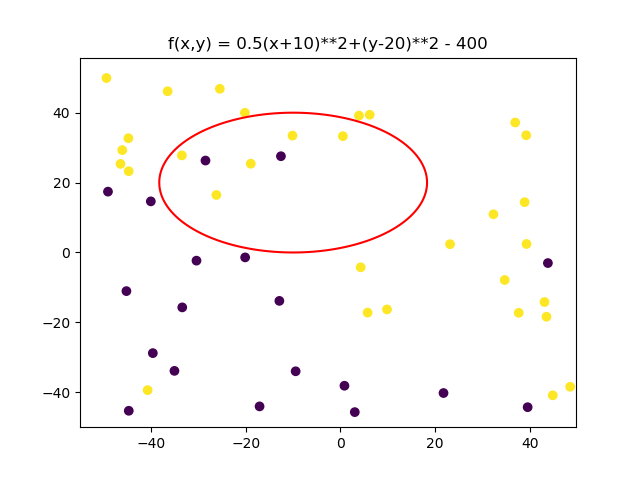
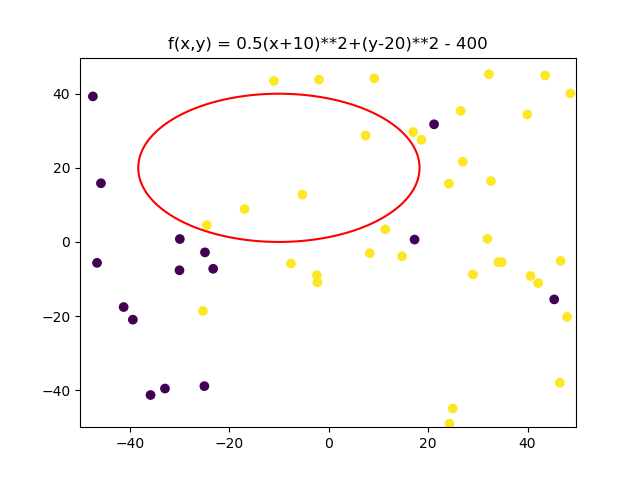
Terminando P2

diff --git a/P2/doc/P2-Balderas-Ruiz-Luis.tex b/P2/doc/P2-Balderas-Ruiz-Luis.tex
@@ -84,7 +84,7 @@
 	
 	Creo una recta aleatoria con la función \textit{simula\_recta()} de forma que su pendiente y su ordenada en el origen son las siguientes:
 	
-	$$a = -0.750132431433, b=-14.4754885133$$
+	$$a = -2.04013210695, b=-46.0760383842$$
 	
 	Tras generar el dataset de 50 puntos, etiqueto cada uno de ellos en función de si están por encima o por debajo de la recta (cada color indica una situación). El resultado es el siguiente: 
 	
@@ -165,6 +165,171 @@ Está claro que no genera ningún beneficio en este caso con respecto a la recta
 \end{itemize}
 
 Como se puede ver, ninguna modificación compleja de la función lineal original ha servido para mejorar la clasificación. El motivo es que los datos son prácticamente linealmente separables (solamente han cambiado las etiquetas de 4 puntos) por lo que, a pesar de que no clasificaría el 100\% de los datos bien, comete un error muy pequeño.
+
+
+\section{MODELOS LINEALES}
+
+\subsection{Ejercicio 1}
+
+\textbf{Implementar la función ajusta\_PLA que calcula el hiperplano solución a un problema de clasificación binaria usando el algoritmo PLA. La función devuelve los coeficientes del hiperplano}
+
+\begin{itemize}
+	\item[a)] Ejecutar el algoritmo PLA con los datos simulados en los apartados 2a. Inicializar el algoritmo con: a) el vector cero y, b) con vectores de números aleatorios en [0,1] (10 veces). Anotar el número medio de iteraciones necesarias en ambos para converger. Valorar el resultado relacionando el punto de inicio con el número de iteraciones.
+	
+	En el primer caso, con un vector cero, los resultados son constantes. Los resultados son los siguientes:
+	
+	 w =  (334,13.38587411,4.62931342) y 55 iteraciones de media. He aquí el ajuste:
+	
+	\begin{figure}[H] %con el [H] le obligamos a situar aquí la figura
+		\centering
+		\includegraphics[scale=0.5]{PLA1.png}  %el parámetro scale permite agrandar o achicar la imagen. En el nombre de archivo puede especificar directorios
+		\caption{Ajuste de PLA con para los datos de 2a inicializado con vector cero} 
+		\label{fig:pla1}
+	\end{figure}
+
+	En el segundo caso, con un vector inicializado con números aleatorios entre 0 y 1, se obtienen los siguientes resultados (w varía en función de la iteración): 53.4 iteraciones de media para la convergencia. Por mostrar que funciona de manera conveniente, represento el resultado de la primera iteración:
+	
+	\begin{figure}[H] %con el [H] le obligamos a situar aquí la figura
+		\centering
+		\includegraphics[scale=0.5]{PLA2.png}  %el parámetro scale permite agrandar o achicar la imagen. En el nombre de archivo puede especificar directorios
+		\caption{Ajuste de PLA con para los datos de 2a inicializado con vector aleatorio} 
+		\label{fig:pla2}
+	\end{figure}
+	
+	\item[b)] Hacer lo mismo que antes usando ahora los datos del apartado 2b. ¿Observa algún comportamiento diferente? En caso afirmativo diga cuál y las razones para que ello ocurra.
+	
+	Efectivamente, el comportamiento es diferente. Los datos generados en el apartado 2b de la sección 1 están caracterizados por la existencia de ruido en ellos. En concreto, de un 10\% de las etiquetas de cada clase. Por tanto, el conjunto de datos no es linealmente separable. En consecuencia, el algoritmo PLA no puede converger y generar un hiperplano (una recta en este caso) que separe los datos \cite{lfd}, \cite{esl}. 
+	
+	Como se puede ver en la ejecución del algoritmo, tras 15000 iteraciones, los resultados son distintos cada vez y no se consigue la separación como se puede ver a continuación:
+	
+	
+	\begin{figure}[H] %con el [H] le obligamos a situar aquí la figura
+		\centering
+		\includegraphics[scale=0.5]{PLA-ruido.png}  %el parámetro scale permite agrandar o achicar la imagen. En el nombre de archivo puede especificar directorios
+		\caption{Ajuste de PLA con para los datos de 2b. No hay convergencia} 
+		\label{fig:pla-ruido}
+	\end{figure}
+
+	Por tanto, sea cual sea el $w$ de inicio, cero o aleatorio, no se alcanza un resultado ni convergencia (la recta se queda fuera de los márgenes previstos en los puntos).
+\end{itemize}
+
+
+\subsection{Ejercicio 2}
+
+\textbf{Regresión Logística}
+
+\begin{itemize}
+	\item[a)] Implementar Regresión Logística con SGD bajo las siguientes condiciones: Inicializar el vector de pesos con valores 0; criterio de parada con $\epsilon = 0.01$; aplicar permutación aleatoria antes de cada época; tasa de aprendizaje de $\eta = 0.01$.
+	
+	En primer lugar, genero el conjunto de datos como se pide, una recta y divido el dataset en dos tipos:
+	
+	\begin{figure}[H] %con el [H] le obligamos a situar aquí la figura
+		\centering
+		\includegraphics[scale=0.6]{reg-log.png}  %el parámetro scale permite agrandar o achicar la imagen. En el nombre de archivo puede especificar directorios
+		\caption{Dataset a evaluar con SGD-RL} 
+		\label{fig:reg-log}
+	\end{figure}
+	
+	
+	En el archivo de código está implementada la Regresión Logística con SGD. Cabe destacar que es parecida a SGD que desarrollamos en la práctica anterior, teniendo en cuenta que el tamaño del minibatch es 1. Sin embargo, calculamos el gradiente de $E_in$ vía la fórmula de regresión logística:
+	$$\nabla E_{in} = \frac{-1}{N} \sum_{n=1}^{N} = \frac{y_n x_n}{1+ e^{y_n w^T(t)x_n}}$$
+	
+	Muestro ahora el resultado de la ejecución:
+	
+	w = (-10.69386455, 3.26264871, 6.14173663), $E_{in}$ = 0.13625555
+	
+	\begin{figure}[H] %con el [H] le obligamos a situar aquí la figura
+		\centering
+		\includegraphics[scale=0.6]{SGD-RL.png}  %el parámetro scale permite agrandar o achicar la imagen. En el nombre de archivo puede especificar directorios
+		\caption{SGD-Regresión Logística en training} 
+		\label{fig:sgd-rl-train}
+	\end{figure}
+
+	\item[b)] Usar la muestra de datos etiquetada para enconrar nuestra solución g y estimar $E_{out}$ usando para ello un número suficientemente grande de datos.
+	
+	Para este apartado, genero 2000 puntos 2D en $[0,2]\times[0,2]$. Calculo sus etiquetas y obtengo los siguientes resultados:
+	
+	$E_{out}$ = 0.13496952
+	
+	\begin{figure}[H] %con el [H] le obligamos a situar aquí la figura
+		\centering
+		\includegraphics[scale=0.6]{SGD-RL-T.png}  %el parámetro scale permite agrandar o achicar la imagen. En el nombre de archivo puede especificar directorios
+		\caption{SGD-Regresión Logística en test} 
+		\label{fig:sgd-rl-test}
+	\end{figure}
+	
+	Como se puede comprobar, $E_{out} < E_{in}$. Paradójicamente, en este problema tiene sentido. Si la frontera de decisión es fija (la recta se genera al principio y no se mueve) y simulamos las etiquetas de acuerdo a esa recta, ahora tenemos un dataset a evaluar con una distribución uniforme mucho más poblada que antes. Como SGD-RL ha sido capaz de ajustarse mucho a la frontera de decisión, separa muchísimos más datos  que antes (el dataset es mucho mayor) correctamente y deja prácticamente los mismos mal clasificados, por lo que el error disminuye.
+\end{itemize}	
+	
+\section{BONUS}
+
+\subsection{Ejercicio 1}
+
+\textbf{Considera el conjunto de datos de los dígitos manuscritos. Plantear un problema de clasificación binaria que considere el conjunto de entrenamiento como datos de entrada para aprender la función g. Usar un modelo de Regresión Lineal y aplicar PLA-Pocket como mejora. Responder a la siguientes cuestiones}
+
+\begin{itemize}
+	\item[a)] Generar gráficos separados de los datos de entrenamiento y test junto con la función estimada.
+	
+	En primer lugar, he utilizado la Pseudoinversa como modelo de regresión lineal, ya que lo teníamos implementado en la práctica anterior. Aprovechando Pseudoinversa, el calculado la $w_{ini}$ = (0.50676351, -8.25119739, -0.44464113) . A continuación, con esa $w_{ini}$, ejecuto PLA-Pocket y se obtienen los siguiente resultados:
+	
+	$w$ = (6.50676351, -94.33278003, -4.88432863)
+	
+	\begin{figure}[H] %con el [H] le obligamos a situar aquí la figura
+		\centering
+		\includegraphics[scale=0.6]{train_pla_pocket.png}  %el parámetro scale permite agrandar o achicar la imagen. En el nombre de archivo puede especificar directorios
+		\caption{Resultado de entrenamiento PLA-Pocket+Pseudoinversa} 
+		\label{fig:train-pla-pocket}
+	\end{figure}
+
+	En el caso de test, el resultado es el siguiente:
+	
+	\begin{figure}[H] %con el [H] le obligamos a situar aquí la figura
+		\centering
+		\includegraphics[scale=0.6]{test_pla_pocket.png}  %el parámetro scale permite agrandar o achicar la imagen. En el nombre de archivo puede especificar directorios
+		\caption{Resultado de test PLA-Pocket+Pseudoinversa} 
+		\label{fig:test-pla-pocket}
+	\end{figure}
+
+ 	\item[b)] Calcular $E_{in}$ y $E_{test}$
+ 	
+ 	Tras realizar los cálculos, vemos los siguientes resultados:
+ 	
+ 	$$E_{in} = 0.22529313232830822$$
+ 	$$E_{test} = 0.2540983606557377$$
+ 	
+ 	\item[c)] Obtener cotas sobre el verdadero valor de  $E_{out}$.
+ 	
+ 	Pueden calcularse dos cotas (\cite{lfd}). Trato primera la de $E_{in}$. 
+ 	Sea $h \in H$, fija, $f(x)$ la función objetivo (desconocida), $D$ el conjunto de entrenamiento de tamaño N. Podemos escribir la desigualdad de Hoeffding como sigue:
+ 	
+ 	$$P(D: |E_{out}(h)-E_{in}(h)|> \epsilon) \leq 2 e^{-2\epsilon^2N} \hspace{0.5cm} \forall \epsilon > 0$$
+ 	
+ 	Llamando $\delta = 2e^{-2\epsilon^2 N}$, tenemos
+	
+	$$P(D: |E_{out}(h)-E_{in}(h)|> \epsilon) \leq \delta \Rightarrow P(D: |E_{out}(h)-E_{in}(h)| < \epsilon) \geq 1 - \delta$$
+	
+	Podemos escribir, por tanto, la siguiente desigualdad:
+	
+	$$E_{out}(h) \leq E_{in}(h) + \sqrt{\frac{1}{2N} \log \frac{2}{\delta}}$$
+	con probabilidad al menos $1-\delta$ en $D$.
+	
+	Considerando una clase de funciones finita, la expresión se convierte en 
+	$$E_{out}(h) \leq E_{in}(h) + \sqrt{\frac{1}{2N} \log \frac{2|H|}{\delta}}$$
+	
+	Sin embargo, el tamaño de la clase de funciones ahora entra en juego y puede hacer menos útil la cota. Para poder garantizar una buena cota, surge la teoría de la generalización y la Dimensión de Vapnik-Chervonenkis (VC). Como se trata de un modelo lineal, VC = 3 y la cota a utilizar es la siguiente:
+	
+	$$E_{out}(h) \leq E_{in}(h) + \sqrt{\frac{8}{N} \log \frac{4((2N)^{d {VC}}+1)}{\delta}}$$
+	
+	La cota, por tanto, es $E_{out} \leq 0.656229637799$.
+	
+	Para el caso de $E_{test}$, cuando afirmamos que $E_{test}$ es un estimador de $E_{out}$, estamos afirmando que $E_{test}$ generaliza muy bien $E_{out}$. En el caso anterior, intentábamos buscar la función que minimizaba $E_{in}$. Ahora, sin embargo, ya tenemos una función fija y queremos simplemente estimar el error. Por tanto, la desigualdad de Hoeffding con una hipótesis es suficiente para el caso de conjunto de test. 
+	
+	$$E_{out}(h) \leq E_{test}(h) + \sqrt{\frac{1}{2N} \log \frac{2}{\delta}}$$
+	
+	La cota, por tanto, es $E_{out} \leq 0.325087464088$
+	
+	Como intentamos minimizar $E_{out}$, la mejor cota es la menor, es decir, la que genera $E_{test}$.
+\end{itemize}
 
 \newpage
 \section{Bibliografía}

diff --git a/P2/P2-BalRuiLui.py b/P2/P2-BalRuiLui.py
@@ -11,7 +11,7 @@ import warnings
 
 
 # Fijamos la semilla
-np.random.seed(123456789)
+np.random.seed(77145416)
 
 
 def simula_unif(N, dim, rango):
@@ -97,9 +97,8 @@ def dibujaRecta(x, y, a, b, titulo='Scatter plot de datos', eje_x='X', eje_y='Y'
 	plt.title(titulo)
 	plt.show()
 
-"""
-#Ejercicio 1: SOBRE LA COMPLEJIDAD DE H Y EL RUIDO
-"""
+
+# Ejercicio 1: SOBRE LA COMPLEJIDAD DE H Y EL RUIDO
 
 
 print("####################################################")
@@ -147,6 +146,7 @@ print("Conjunto de datos a representar gráficamente")
 print(puntos_un)
 plt.scatter(puntos_un[:,0],puntos_un[:,1], c = puntos_un[:,2])
 plt.plot([-50,50],[-50*a+b,50*a+b])
+plt.ylim([-60,60])
 plt.title("Conjunto aleatorio de datos y recta que los separa")
 plt.show()
 
@@ -185,6 +185,7 @@ print("Modificación de  los puntos anteriores añadiendo ruido en el 10% de las
 print(puntos_ruido)
 plt.scatter(puntos_ruido[:,0],puntos_ruido[:,1], c = puntos_ruido[:,2])
 plt.plot([-50,50],[-50*a+b,50*a+b])
+plt.ylim([-60,60])
 plt.title("Introducción de ruido sobre el conjunto de datos.\n Ahora hay puntos mal clasificados")
 plt.show()
 
@@ -248,10 +249,19 @@ print("####################################################")
 
 print("Definiendo la función ajusta_PLA...")
 
-def ajusta_PLA(datos,label,vini,max_iter = -1):
+#
+# PLA
+# @brief Algoritmo que dados un conjunto de datos y etiquetas, genera el ajuste
+# 		 lineal que separa los datos.
+# @param datos Conjunto de datos para clasificar
+# @param label Etiquetas para los datos anteriores
+# @param max_iter Número máximo de iteraciones
+# @param vini Valor inicial de los w
+#
+
+def ajusta_PLA(datos,label,max_iter,vini):
 	w = vini
 	w_old = vini
-	datos = np.concatenate((np.ones((datos.shape[0],1),np.float64),datos),axis=1)
 	it = 0
 	changes = True
 	if max_iter != -1:
@@ -275,51 +285,91 @@ def ajusta_PLA(datos,label,vini,max_iter = -1):
 			w = np.array(w)
 	return w,it
 
-def ajusta_PLA2(datos,label,max_iter,vini):
-	w = vini
-	for i in range(max_iter):
-		w_old = w
-		for d,l in zip(datos,label):
-			if np.sign(w.dot(d)) != l:
-				w = w + l*d
-		if np.all(np.equal(w,w_old)):
-			return w, i
-	return w,max_iter
 
 print("Ejercicio 1")
 
 print("a) Ejecuto PLA con los datos de 2a de la sección anterior. Parámetros:")
 print("a) 1. Vector 0")
 
-# 92 iteraciones w [  36.85168076   47.132749    605.        ]
-w21a1, it21a1 = ajusta_PLA(puntos,signos,np.zeros(puntos.shape[1]+1,np.float64))
-print("w obtenido: ", w21a1)
-print("Número de iteraciones necesarias para la convergencia: ", it21a1)
+
+# Añado la columna de 1 y preparo las etiquetas para ser dibujadas
+puntos = np.hstack((np.ones(shape=(puntos.shape[0],1)),puntos))
+
+labels = []
+for i in range(len(signos)):
+	labels.append(signos[i][0])
+
+
+media21a1 = 0
+print(puntos)
+for i in range(0,10):
+	print("Iteración ", i)
+	w21a1, it21a1 = ajusta_PLA(puntos,signos,15000,np.zeros(puntos.shape[1],np.float64))
+	print("w obtenido: ", w21a1)
+	#dibujaRecta(puntos,labels,-w21a1[1]/w21a1[2], -w21a1[0]/w21a1[2],"PLA", "X","Y")
+	print("Número de iteraciones necesarias para la convergencia: ", it21a1)
+	media21a1 = media21a1 + it21a1
+	input("\n--- Pulsa una tecla para continuar ---\n")
+
+media21a1 = media21a1/10
+print("La media de iteraciones para la convergencia es ", media21a1) ## 55
 
 input("\n--- Pulsa una tecla para continuar ---\n")
 
 print("a) 2. Vector de números aleatorios [0,1]")
-# 130 iteraciones w  [  41.12023131   54.91502475  758.21062629]
-w21a2, it21a2 = ajusta_PLA(puntos,signos,np.array([np.random.rand(),np.random.rand(),np.random.rand()]))
-print("w obtenido: ",w21a2)
-print("Número de iteraciones necesarias para la convergencia: ",it21a2)
+media21a2 = 0
+
+for i in range(0,10):
+	print("Iteración ", i)
+	w21a2, it21a2 = ajusta_PLA(puntos,signos,15000,np.array([np.random.rand(),np.random.rand(),np.random.rand()]))
+	print("w obtenido: ",w21a2)
+	#dibujaRecta(puntos,labels,-w21a2[1]/w21a2[2], -w21a2[0]/w21a2[2],"PLA", "X","Y")
+	media21a2 = media21a2 + it21a2
+	print("Número de iteraciones necesarias para la convergencia: ",it21a2)
+	input("\n--- Pulsa una tecla para continuar ---\n")
+
+media21a2 = media21a2/10
+print("La media de iteraciones para la convergencia es ", media21a2) #53.4
 
 input("\n--- Pulsa una tecla para continuar ---\n")
 
 print("b) PLA con los datos de 2b de la sección anterior. Parámetros:")
 print("1. Vector 0")
-# No converge. 15000 iteraciones w [  22.7135259   -29.86849622  231.        ]
-w21b1, it21b1 = ajusta_PLA(puntos,puntos_ruido[:,2],np.zeros(puntos.shape[1]+1,np.float64),15000)
-print("w obtenido: ",w21b1)
-print("Número de iteraciones necesarias para la convergencia: ",it21b1)
+media21b1 = 0
+for i in range(0,10):
+	print("Iteración ", i)
+	w21b1, it21b1 = ajusta_PLA(puntos,puntos_ruido[:,2],15000,np.zeros(puntos.shape[1],np.float64))
+	print("w obtenido: ",w21b1)
+	#dibujaRecta(puntos,puntos_ruido[:,2],-w21b1[1]/w21b1[2], -w21b1[0]/w21b1[2],"PLA con ruido", "X","Y")
+	media21b1 = media21b1 + it21b1
+	print("Número de iteraciones necesarias para la convergencia: ",it21b1)
+	input("\n--- Pulsa una tecla para continuar ---\n")
+
+media21b1 = media21b1/10
+if media21b1 > 15000:
+	print("El algoritmo con este conjunto de datos no converge. Siempre se llega al máximo número de iteraciones") # No converge
+else:
+	print("La media de iteraciones para la convergencia es ", media21b1)
 
 input("\n--- Pulsa una tecla para continuar ---\n")
 
 print("2. Vector de números aleatorios [0,1]")
-# No converge 15000 iteraciones w [  33.65887969  -42.0748706   243.0822101 ]
-w21b2, it21b2 = ajusta_PLA(puntos,puntos_ruido[:,2],np.array([np.random.rand(),np.random.rand(),np.random.rand()],np.float64),15000)
-print("w obtenido: ",w21b2)
-print("Número de iteraciones necesarias para la convergencia: ",it21b2)
+
+media21b2 = 0
+
+for i in range(0,10):
+	print("Iteración ", i)
+	w21b2, it21b2 = ajusta_PLA(puntos,puntos_ruido[:,2],15000,np.array([np.random.rand(),np.random.rand(),np.random.rand()],np.float64)) # No converge
+	print("w obtenido: ",w21b2)
+	media21b2 = media21b2 +it21b2
+	print("Número de iteraciones necesarias para la convergencia: ",it21b2)
+	input("\n--- Pulsa una tecla para continuar ---\n")
+
+media21b2 = media21b2/10
+if media21b2 > 15000:
+	print("El algoritmo con este conjunto de datos no converge. Siempre se llega al máximo número de iteraciones")
+else:
+	print("La media de iteraciones para la convergencia es ", media21b2)
 
 input("\n--- Pulsa una tecla para continuar ---\n")
 
@@ -542,6 +592,8 @@ print("Ejecutando Pseudoinversa como ajuste lineal y PLA-Pocket para extraer res
 # al PLA_pocket
 w_ini = pseudoinverse(x,y)
 
+print("w inicial calculada con pseudoinversa: ",w_ini)
+
 # Ejecuto PLA_pocket con 1000 iteraciones y w_ini la salida de Pseudoinversa
 w = PLA_pocket(x, y, 1000, w_ini)
 
@@ -581,7 +633,9 @@ print("de la interpretación de la desigualdad de Hoeffding y su adaptación")
 print("vía la dimensión de Vapnik-Chervonenkis (3 por ser lineal)")
 
 cotaein = E_in + np.sqrt((8/y.size)*np.log(4*((2*y.size)**3 + 1)/0.05))
-cotaetest = E_test + np.sqrt((8/y_test.size)*np.log(4*((2*y_test.size)**3 +1 )/0.05))
+
+print("En el caso de Etest, es suficiente utilizar la desigualdad de Hoeffding")
+cotaetest = E_test + np.sqrt((1/(2*y_test.size))*np.log(2/0.05))
 
 print ('\nCotas sobre el valor del error fuera de la muestra\n')
 print ('Cota basada en Ein:', cotaein)
